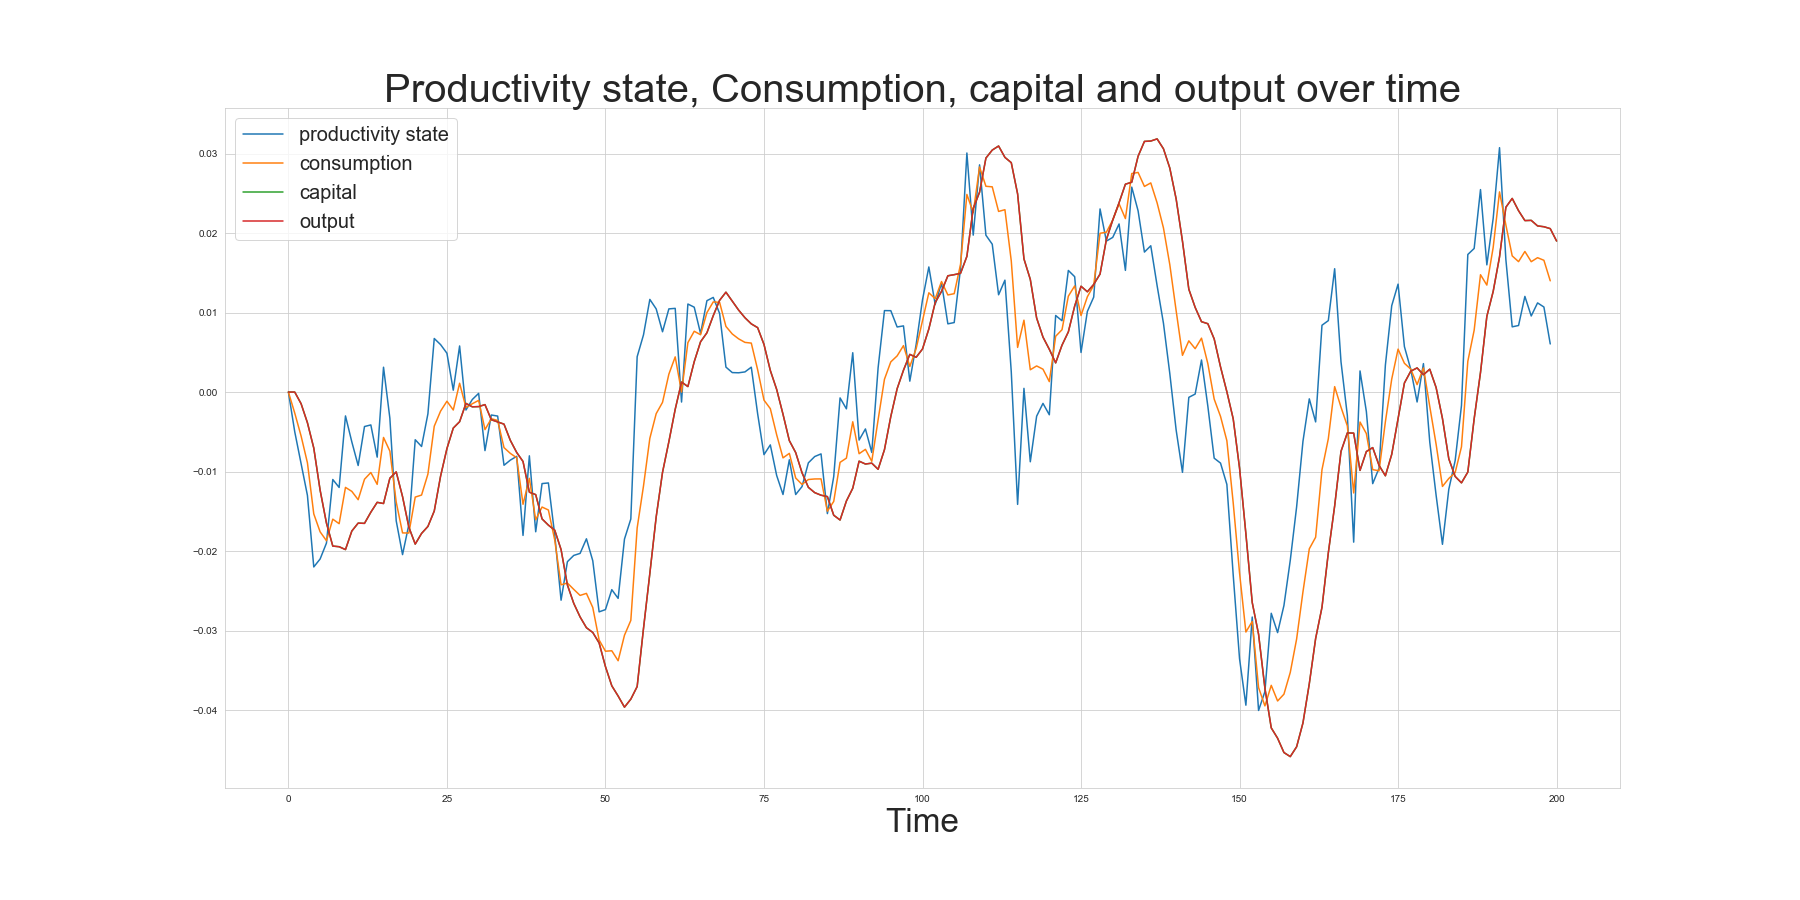
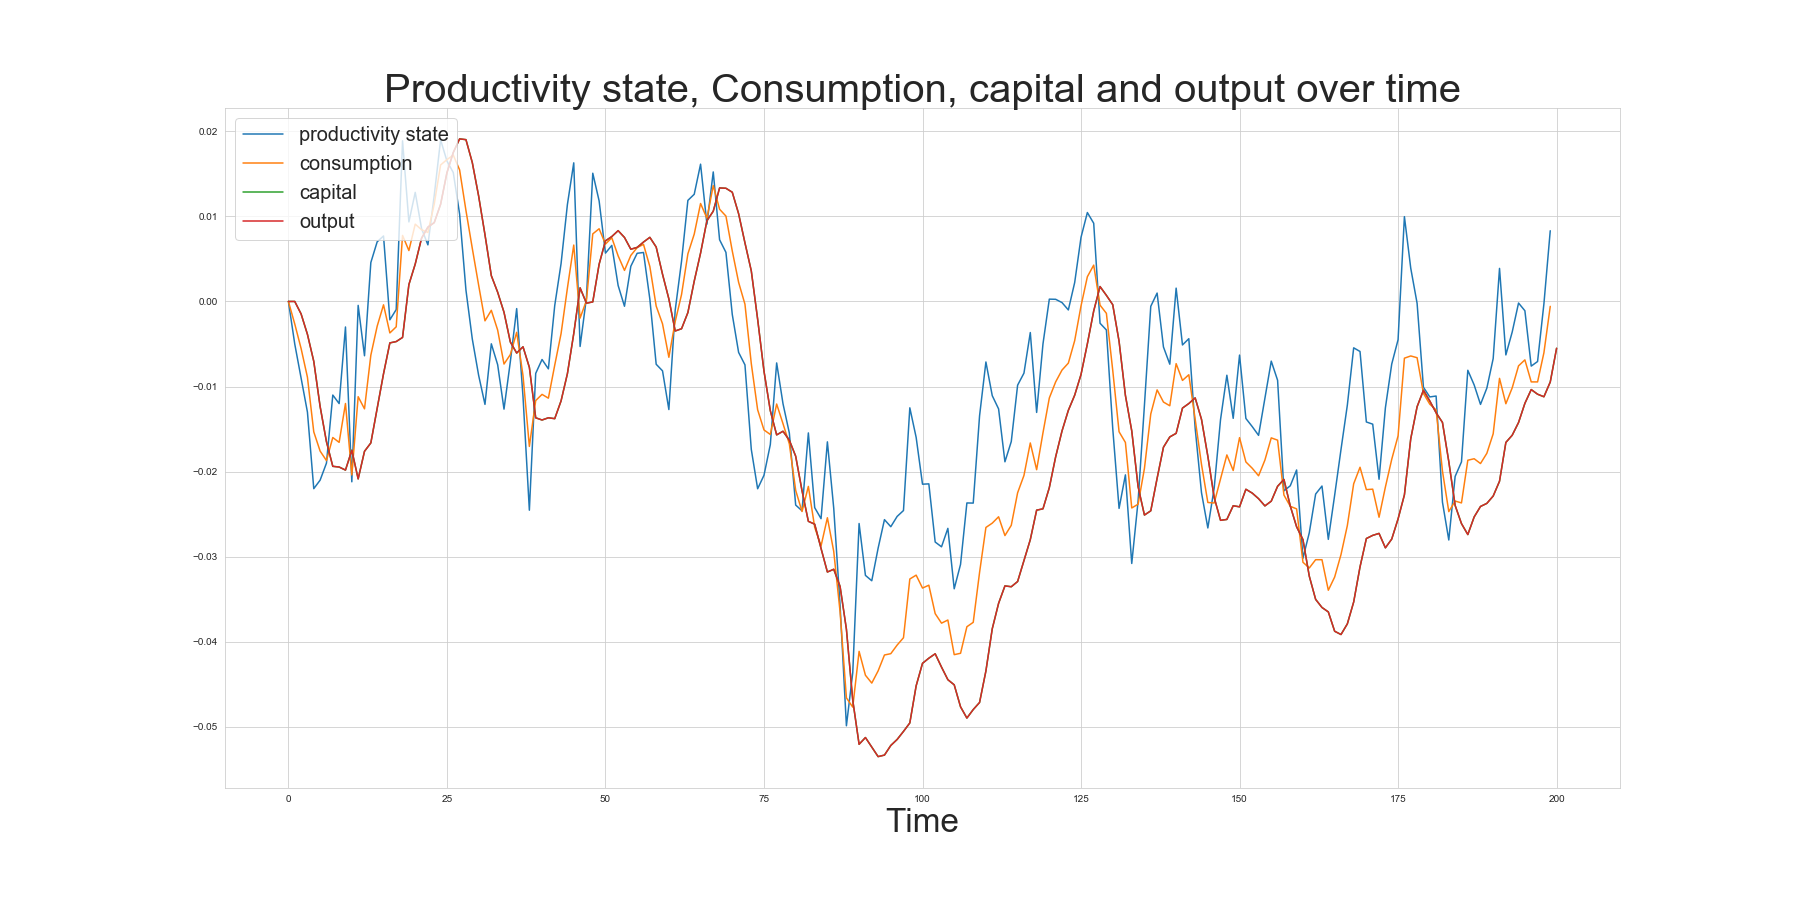
:art: Change simulate period to 200.

Changed region(s): [[0.1556, 0.1556, 0.8711, 0.8089], [0.4667, 0.6844, 0.56, 0.84]]

diff --git a/application.py b/application.py
@@ -12,7 +12,7 @@ delta = 0.1
 rho = 0.9
 
 # Set the number of time periods to simulate.
-T = 100
+T = 200
 
 # first 10 periods given
 inital_productivity_state = [0, -0.005, -0.009,
